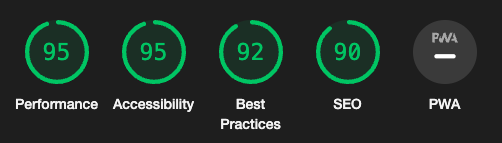
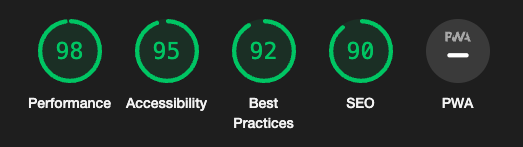
docs - updated images in testing.md

diff --git a/TESTING.md b/TESTING.md
@@ -35,7 +35,7 @@ Individual test results will be found in the [Python](#python) testing section.
 |                    | Screenshot                                                        |              Notes                   |
 |--------------------|-------------------------------------------------------------------|--------------------------------------|
 | Desktop            | ![index-desktop](static/img/testing/lighthouse-index-desktop.png) |                                      |
-| Mobile             | ![index-mobile](static/img/testing/lighthouse-index-mobile.png)   | Performance down due to image sizes. |
+| Mobile             | ![index-mobile](static/img/testing/lighthouse-index-mobile.png)   | Minor Issues                         |
 | W3C HTML Validator | ![index-validator](static/img/testing/index-validator.png)        |                                      |
 
 &nbsp;  
@@ -46,7 +46,7 @@ Individual test results will be found in the [Python](#python) testing section.
 |                    | Screenshot                                                        |              Notes                   |
 |--------------------|-------------------------------------------------------------------|--------------------------------------|
 | Desktop            | ![menu-desktop](static/img/testing/lighthouse-menu-desktop.png)   |                                      |
-| Mobile             | ![menu-mobile](static/img/testing/lighthouse-menu-mobile.png)     | Performance down due to image sizes. |
+| Mobile             | ![menu-mobile](static/img/testing/lighthouse-menu-mobile.png)     | Minor Issues                         |
 | W3C HTML Validator | ![menu-validator](static/img/testing/menu-validator.png)          |                                      |
 
 &nbsp;  
@@ -56,8 +56,8 @@ Individual test results will be found in the [Python](#python) testing section.
 
 |                    | Screenshot                                                        |              Notes                  |
 |--------------------|-------------------------------------------------------------------|-------------------------------------|
-| Desktop            | ![book-desktop](static/img/testing/lighthouse-book-desktop.png)   | Accessibility down due to form having placeholders instead of labels. |
-| Mobile             | ![book-mobile](static/img/testing/lighthouse-book-mobile.png)     | Performance down due to image sizes. <br> Accessibility down due to form having placeholders instead of labels. |
+| Desktop            | ![book-desktop](static/img/testing/lighthouse-book-desktop.png)   |                                     |
+| Mobile             | ![book-mobile](static/img/testing/lighthouse-book-mobile.png)     | Minor Issues                        |
 | W3C HTML Validator | ![book-validator](static/img/testing/book-validator.png)          |                                     |
 
 &nbsp;  
@@ -67,8 +67,8 @@ Individual test results will be found in the [Python](#python) testing section.
 
 |                    | Screenshot                                                        |              Notes                   |
 |--------------------|-------------------------------------------------------------------|--------------------------------------|
-| Desktop            | ![login-desktop](static/img/testing/lighthouse-login-desktop.png) | Accessibility down due to form having placeholders instead of labels. |
-| Mobile             | ![login-mobile](static/img/testing/lighthouse-login-mobile.png)   | Performance down due to image sizes. <br> Accessibility down due to form having placeholders instead of labels. |
+| Desktop            | ![login-desktop](static/img/testing/lighthouse-login-desktop.png) |                                      |
+| Mobile             | ![login-mobile](static/img/testing/lighthouse-login-mobile.png)   | Minor Issues                         |
 | W3C HTML Validator | ![login-validator](static/img/testing/login-validator.png)        |                                      |
 
 &nbsp;  
@@ -79,7 +79,7 @@ Individual test results will be found in the [Python](#python) testing section.
 |                    | Screenshot                                                            |              Notes                   |
 |--------------------|-----------------------------------------------------------------------|--------------------------------------|
 | Desktop            | ![logout-desktop](static/img/testing/lighthouse-logout-desktop.png)   |                                      |
-| Mobile             | ![logout-mobile](static/img/testing/lighthouse-logout-mobile.png)     | Performance down due to image sizes. |
+| Mobile             | ![logout-mobile](static/img/testing/lighthouse-logout-mobile.png)     | Minor Issues                         |
 | W3C HTML Validator | ![logout-validator](static/img/testing/logout-validator.png)          |                                      |
 
 &nbsp;  
@@ -90,7 +90,7 @@ Individual test results will be found in the [Python](#python) testing section.
 |                    | Screenshot                                                            |              Notes                   |
 |--------------------|-----------------------------------------------------------------------|--------------------------------------|
 | Desktop            | ![signup-desktop](static/img/testing/lighthouse-signup-desktop.png)   |                                      |
-| Mobile             | ![signup-mobile](static/img/testing/lighthouse-signup-mobile.png)     | Performance down due to image sizes. |
+| Mobile             | ![signup-mobile](static/img/testing/lighthouse-signup-mobile.png)     | Minor Issues                         |
 | W3C HTML Validator | ![signup-validator](static/img/testing/signup-validator.png)          |                                      |
 
 &nbsp;  
@@ -101,7 +101,7 @@ Individual test results will be found in the [Python](#python) testing section.
 |                    | Screenshot                                                            |              Notes                   |
 |--------------------|-----------------------------------------------------------------------|--------------------------------------|
 | Desktop            | ![booking-desktop](static/img/testing/lighthouse-booking-desktop.png) |                                      |
-| Mobile             | ![booking-mobile](static/img/testing/lighthouse-booking-mobile.png)   | Performance down due to image sizes. |
+| Mobile             | ![booking-mobile](static/img/testing/lighthouse-booking-mobile.png)   | Minor Issues                         |
 | W3C HTML Validator | ![booking-validator](static/img/testing/booking-validator.png)        |                                      |
 
 &nbsp;  
@@ -109,8 +109,8 @@ Individual test results will be found in the [Python](#python) testing section.
 
 |                    | Screenshot                                                            |              Notes                   |
 |--------------------|-----------------------------------------------------------------------|--------------------------------------|
-| Desktop            | ![update-desktop](static/img/testing/lighthouse-update-desktop.png)   | Accessibility down due to form having placeholders instead of labels. |
-| Mobile             | ![update-mobile](static/img/testing/lighthouse-update-mobile.png)     | Performance down due to image sizes. <br> Accessibility down due to form having placeholders instead of labels. |
+| Desktop            | ![update-desktop](static/img/testing/lighthouse-update-desktop.png)   |                                      |
+| Mobile             | ![update-mobile](static/img/testing/lighthouse-update-mobile.png)     | Minor Issues                         |
 | W3C HTML Validator | ![update-validator](static/img/testing/update-validator.png)          |                                      |
 
 &nbsp;  
@@ -119,7 +119,7 @@ Individual test results will be found in the [Python](#python) testing section.
 |                    | Screenshot                                                            |              Notes                   |
 |--------------------|-----------------------------------------------------------------------|--------------------------------------|
 | Desktop            | ![delete-desktop](static/img/testing/lighthouse-delete-desktop.png)   |                                      |
-| Mobile             | ![delete-mobile](static/img/testing/lighthouse-delete-mobile.png)     | Performance down due to image sizes. |
+| Mobile             | ![delete-mobile](static/img/testing/lighthouse-delete-mobile.png)     | Minor Issues                         |
 | W3C HTML Validator | ![delete-validator](static/img/testing/delete-validator.png)          |                                      |
 
 &nbsp;  
@@ -130,7 +130,7 @@ Individual test results will be found in the [Python](#python) testing section.
 |                    | Screenshot                                                                    |                      Notes                   |
 |--------------------|-------------------------------------------------------------------------------|----------------------------------------------|
 | Desktop            | ![all-booking-desktop](static/img/testing/lighthouse-all-booking-desktop.png) |                                              |
-| Mobile             | ![all-booking-mobile](static/img/testing/lighthouse-all-booking-mobile.png)   | Performance down due to image sizes.         |
+| Mobile             | ![all-booking-mobile](static/img/testing/lighthouse-all-booking-mobile.png)   | Minor Issues                                 |
 | W3C HTML Validator | ![all-booking-validator](static/img/testing/all-booking-validator.png)        |                                              |
 
 &nbsp;  
@@ -141,7 +141,7 @@ Individual test results will be found in the [Python](#python) testing section.
 |                    | Screenshot                                                                        |                      Notes                   |
 |--------------------|-----------------------------------------------------------------------------------|----------------------------------------------|
 | Desktop            | ![draft-reviews-desktop](static/img/testing/lighthouse-draft-reviews-desktop.png) |                                              |
-| Mobile             | ![draft-reviews-mobile](static/img/testing/lighthouse-draft-reviews-mobile.png)   | Performance down due to image sizes.         |
+| Mobile             | ![draft-reviews-mobile](static/img/testing/lighthouse-draft-reviews-mobile.png)   | Minor Issues                                 |
 | W3C HTML Validator | ![draft-reviews-validator](static/img/testing/draft-reviews-validator.png)        |                                              |
 
 &nbsp;  
@@ -152,7 +152,7 @@ Individual test results will be found in the [Python](#python) testing section.
 |                    | Screenshot                                                                          |                      Notes                   |
 |--------------------|-------------------------------------------------------------------------------------|----------------------------------------------|
 | Desktop            | ![review-success-desktop](static/img/testing/lighthouse-review-success-desktop.png) |                                              |
-| Mobile             | ![review-success-mobile](static/img/testing/lighthouse-review-success-mobile.png)   | Performance down due to image sizes.         |
+| Mobile             | ![review-success-mobile](static/img/testing/lighthouse-review-success-mobile.png)   | Minor Issues                                 |
 | W3C HTML Validator | ![review-success-validator](static/img/testing/review-success-validator.png)        |                                              |
 
 &nbsp;  
@@ -161,7 +161,7 @@ Individual test results will be found in the [Python](#python) testing section.
 |                    | Screenshot                                                                  |              Notes                   |
 |--------------------|-----------------------------------------------------------------------------|--------------------------------------|
 | Desktop            | ![publish-review](static/img/testing/lighthouse-publish-review-desktop.png) |                                      |
-| Mobile             | ![publish-review](static/img/testing/lighthouse-publish-review-mobile.png)  | Performance down due to image sizes. |
+| Mobile             | ![publish-review](static/img/testing/lighthouse-publish-review-mobile.png)  | Minor Issues                         |
 | W3C HTML Validator | ![publish-review](static/img/testing/publish-review-validator.png)          |                                      |
 
 &nbsp;  
@@ -170,10 +170,13 @@ Individual test results will be found in the [Python](#python) testing section.
 |                    | Screenshot                                                                |              Notes                   |
 |--------------------|---------------------------------------------------------------------------|--------------------------------------|
 | Desktop            | ![delete-review](static/img/testing/lighthouse-delete-review-desktop.png) |                                      |
-| Mobile             | ![delete-review](static/img/testing/lighthouse-delete-review-mobile.png)  | Performance down due to image sizes. |
+| Mobile             | ![delete-review](static/img/testing/lighthouse-delete-review-mobile.png)  | Minor Issues                         |
 | W3C HTML Validator | ![delete-review](static/img/testing/delete-review-validator.png)          |                                      |
 
 &nbsp;  
+
+
+All the issues on performance for mobile view was due to the loading times of the bootstrap css, unfortunately I do not know how to fix this.
 
 ## __CSS__
 
